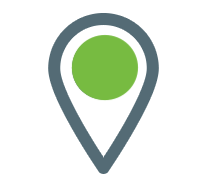
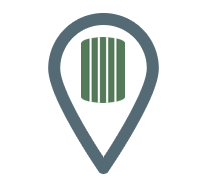
Map enabled using openlayers

Changed region(s): [[0.3462, 0.1872, 0.6635, 0.5615]]

diff --git a/themes/neumaticosnando/layouts/partials/map.html b/themes/neumaticosnando/layouts/partials/map.html
@@ -5,8 +5,8 @@
     <div id="map" class="map"></div>
     <script>
       var baseLayer= new ol.layer.Tile({
-        source: new ol.source.OSM({
-          url: 'https://a.tile.openstreetmap.org/{z}/{x}/{y}.png'
+        source: new ol.source.XYZ({
+          url: 'https://tiles.stadiamaps.com/tiles/alidade_smooth/{z}/{x}/{y}.png'
         }) 
       });
 	  var markers = new ol.layer.Vector({
@@ -14,15 +14,29 @@
   		style: new ol.style.Style({
     	  image: new ol.style.Icon({
       		anchor: [0.5, 1],
-			scale: 0.4,
+    			scale: 0.4,
       		src: "{{ .map_marker | absURL }}"
     		})
   		  })
 	  });
-      var marker = new ol.Feature(new ol.geom.Point(ol.proj.fromLonLat([{{.map_longitude}},{{.map_latitude}}])));
-	  markers.getSource().addFeature(marker);	        
+    var marker = new ol.Feature(new ol.geom.Point(ol.proj.fromLonLat([{{.map_longitude}},{{.map_latitude}}])));
+    markers.getSource().addFeature(marker);	
+
+    var markersRef = new ol.layer.Vector({
+  		source: new ol.source.Vector(),
+  		style: new ol.style.Style({
+    	  image: new ol.style.Icon({
+      		anchor: [0.5, 1],
+    			scale: 0.2,
+      		src: "{{ .map_marker_ref | absURL }}"
+    		})
+  		  })
+	  });
+    var markerRef = new ol.Feature(new ol.geom.Point(ol.proj.fromLonLat([{{.map_longitude_ref}},{{.map_latitude_ref}}])));
+	  markersRef.getSource().addFeature(markerRef);	        
+    
 	  var map = new ol.Map({ 
-        layers: [baseLayer,markers], 
+        layers: [baseLayer,markers,markersRef], 
         target: 'map',
         controls: ol.control.defaults({ 
           attributionOptions: ({

diff --git a/themes/neumaticosnando/assets/css/style.css b/themes/neumaticosnando/assets/css/style.css
@@ -727,7 +727,7 @@ a:hover {
   color: #ddd !important;
 }
 
-.google-map #map-canvas {
+.osm-map #map-canvas {
   height: 400px;
 }
 
